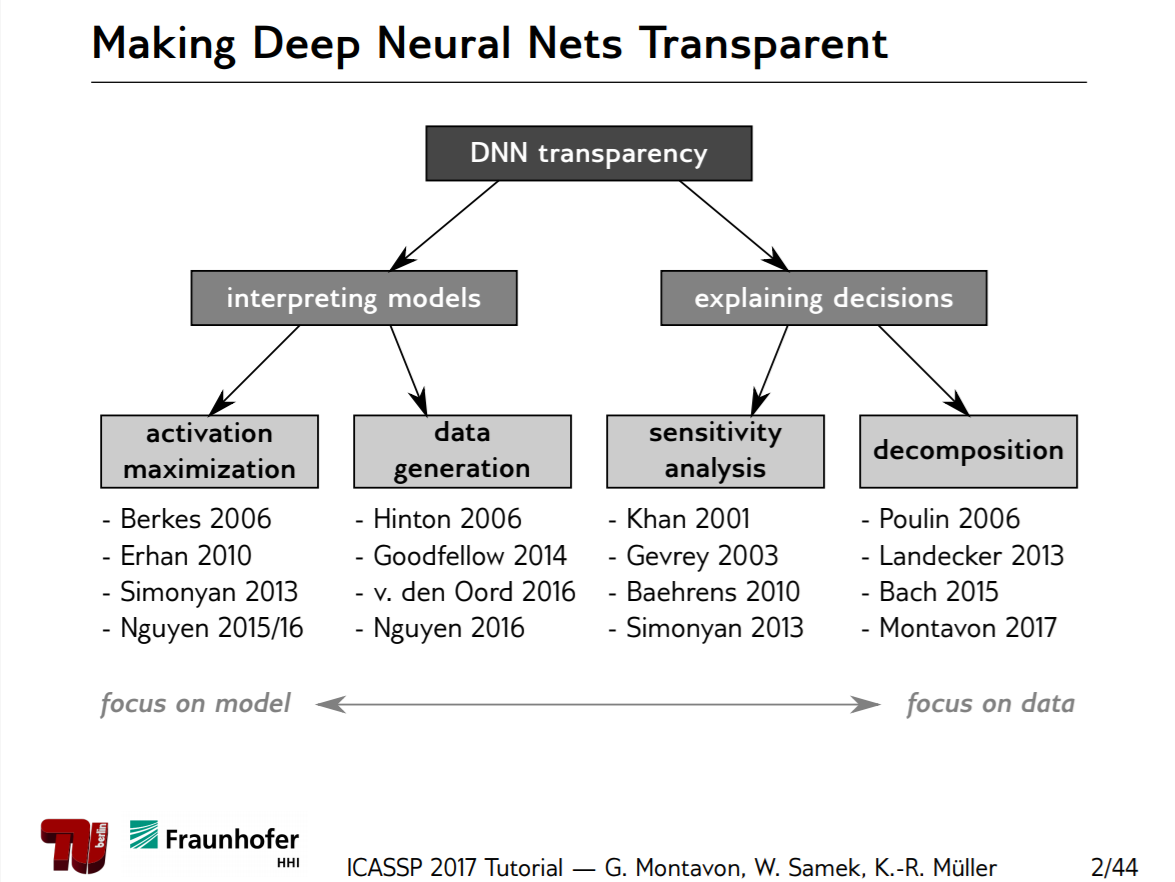
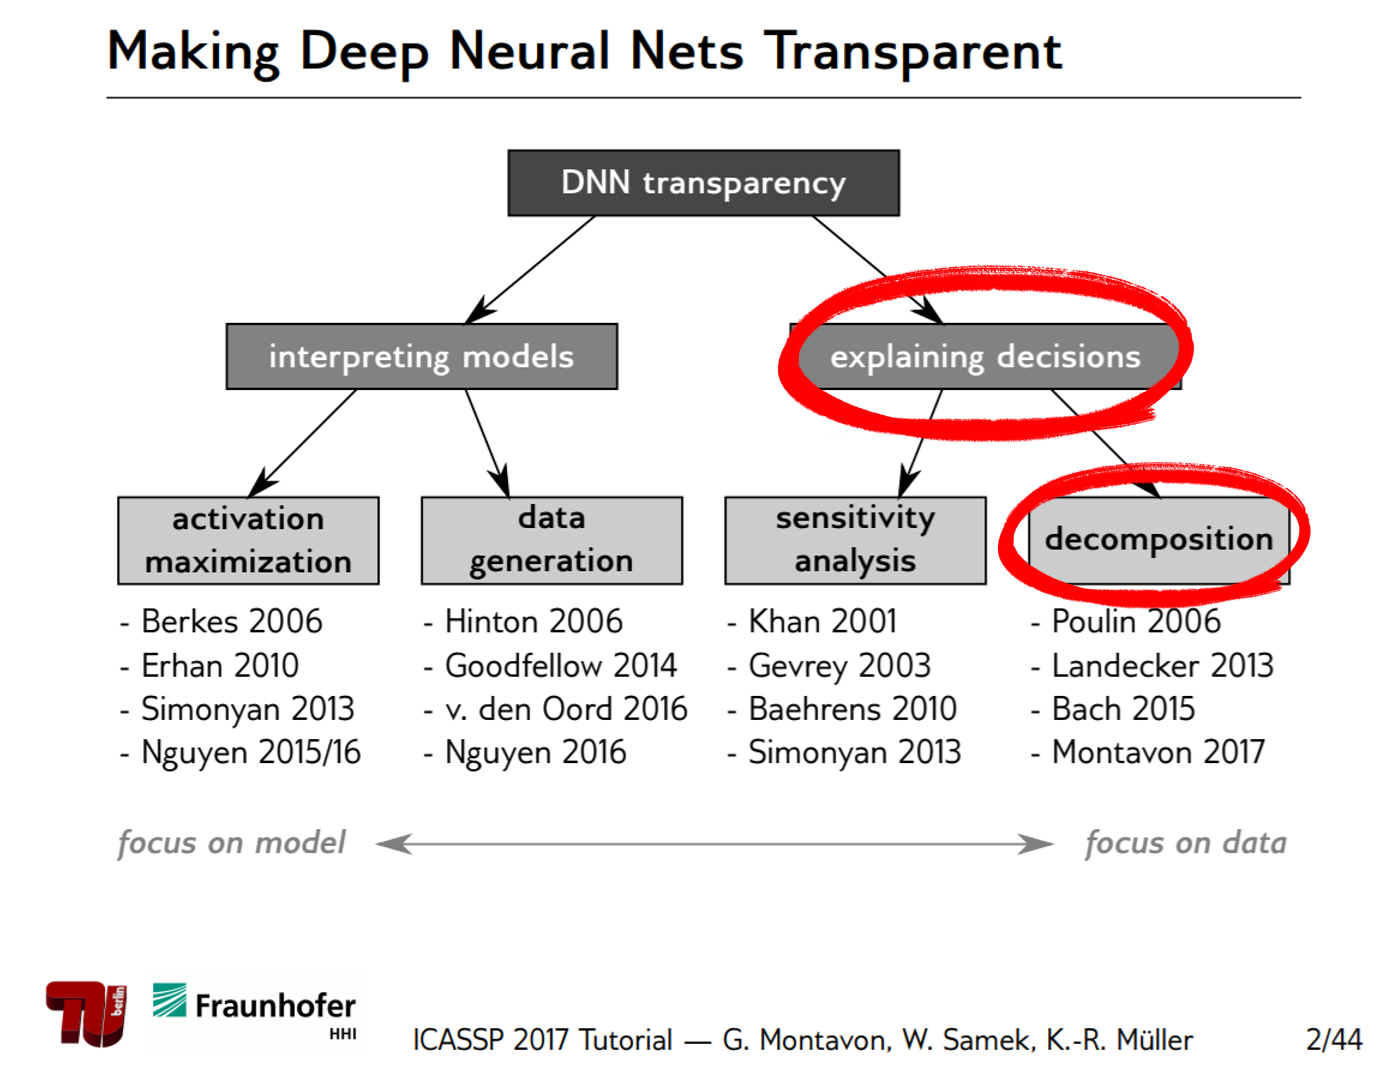
LRP 작성 계속

diff --git a/_posts/2019-08-17-Layerwise_Relevance_Propagation.md b/_posts/2019-08-17-Layerwise_Relevance_Propagation.md
@@ -44,15 +44,17 @@ tags: 딥러닝
 
 이걸 이해하기 위한 연구들은 크게 두 종류로~
 
-// pic 0 here
-// 출처: ICASSP2017 Tutorials on Methods for Interpreting and Understanding Deep Neural Networks
-
+<p align = "center">
+  <img width = "800" src = "https://raw.githubusercontent.com/angeloyeo/angeloyeo.github.io/master/pics/2019-08-17_LRP/pic0_making_neural_network_transparent.png">
+<br>
+그림 0. 뉴럴네트워크의 동작을 이해하기 위한 여러가지 방법들의 분류
+<br>
+출처: ICASSP2017 Tutorials on Methods for Interpreting and Understanding Deep Neural Networks
+</p>
 Layer-wise Relevance Propagation (이하 LRP)는 ~에 속한다.
 
 
-# Layer-wise Relevance Propagation (LRP)
-
-## Goal of LRP
+# Goal of LRP
 
 분해를 통한 설명(explanation by decomposition)을 목표로 한다.
 
@@ -73,11 +75,15 @@ $$f(x) = \sum_{i=1}^{d}R_i$$
 아래 그림 1에서 볼 수 있듯이 heatmap이라고 적힌 그림에 각 pixel들의 기여도(relevance score)를 색깔로 표시해두었으며, 수탉의 부리나 머리등을 보고 해당 입력의 클래스가 '수탉'임을 출력했다는 것을 알 수 있다.
 
 [^1]: 여기서 이 분류기가 수탉이냐 아니냐를 판단하는 binary classifier라면 출력 f(x)는 sigmoid 함수의 출력으로, 다중 클래스 분류기라면 softmax의 출력을 쓸 수 있다.
+<p align = "center">
+  <img width = "800" src = "https://raw.githubusercontent.com/angeloyeo/angeloyeo.github.io/master/pics/2019-08-17_LRP/pic1.png">
+<br>
+그림 1. LRP가 작동하는 방법 및 결과를 요약한 그림
+<br>
+출처: Explaining Decisions of Neural Networks by LRP. Alexander Binder @ Deep Learning: Theory, Algorithms, and Applications. Berlin, June 2017
+</p>
 
-// pic 1 here
-// 출처: Explaining Decisions of Neural Networks by LRP. Alexander Binder @ Deep Learning: Theory, Algorithms, and Applications. Berlin, June 2017 
-
-## The intuition behind it
+# The intuition behind it
 
 LRP(Layer-wise Relevance Propagation)의 이름에서 볼 수 있듯이 이 method는 relevance score를 출력단에서 입력단 방향으로 top-down 방식으로 기여도를 재분배 하는 방법이다.
 
@@ -87,20 +93,34 @@ LRP의 기본적인 가정 및 작동 방식은 다음과 같다.
 * 기여도는 top-down 방식으로 각 뉴런의 출력단에서 입력단 방향으로 재분배 된다.
 * (재)분배시 기여도는 보존된다.
 
-// pic 2 here
-// 출처: Explaining Decisions of Neural Networks by LRP. Alexander Binder @ Deep Learning: Theory, Algorithms, and Applications. Berlin, June 2017 
+<p align = "center">
+  <img width = "400" src = "https://raw.githubusercontent.com/angeloyeo/angeloyeo.github.io/master/pics/2019-08-17_LRP/pic2.png">
+<br>
+그림 2. relevance score의 분배 과정
+<br>
+출처: Explaining Decisions of Neural Networks by LRP. Alexander Binder @ Deep Learning: Theory, Algorithms, and Applications. Berlin, June 2017 
+</p>
 
 재분배시 기여도가 보존된다는 말을 추가 설명 하자면, 예를 들어 그림 1에서와 같이 특정 사진 입력에 대해 '수탉'이라는 분류를 했고 그 출력값(여기서는 확률이라고 할 수 있겠다) $f(x)$가 0.9였다고 하자. 그러면 각 layer의 뉴런들은 0.9라는 출력에 대한 기여도를 모두 조금씩은 갖고 있으며, relevance score를 분배한 후 각 layer에서의 relevance score의 합은 0.9가 되어야 한다는 뜻이다.
 
-## Explanation for neural network?
+# Explanation for neural network?
 
-// pic 3 here
+<p align = "center">
+  <img width = "400" src = "https://raw.githubusercontent.com/angeloyeo/angeloyeo.github.io/master/pics/2019-08-17_LRP/pic3.png">
+<br>
+그림 3. 딥뉴럴네트워크의 예측값(prediction)을 어떻게 분해(decompose)할 것인가?
+</p>
 
-이제 우리가 실질적으로 맞닥뜨리게 되는 문제는 이것이다: **딥 뉴럴 네트워크의 예측값 혹은 출력값($f(x)$)을 수학적으로 어떻게 분해해 '기여도'를 정의할 것인가?**
+이제 우리가 실질적으로 맞닥뜨리게 되는 문제는 이것이다: **딥 뉴럴 네트워크의 예측값 혹은 출력값($f(x)$)을 수학적으로 어떻게 분해하고, 어떻게 '기여도'를 정의할 것인가?**
 
 이 문제에 대한 해결법은 위에서 설명한 "기본적인 가정 및 작동 방식"에 따라 각 뉴런별로 생각하게 되고, 특히 각 뉴런의 출력과 입력의 관계를 이용해 기여도를 수학적으로 정의하고자 한다.
 
-// pic 4 here
+
+<p align = "center">
+  <img width = "400" src = "https://raw.githubusercontent.com/angeloyeo/angeloyeo.github.io/master/pics/2019-08-17_LRP/pic4.png">
+<br>
+그림 4. 2차원 입력과 1차원 출력을 갖는 뉴런
+</p>
 
 그림 4에서와 같이 입력 2개를 갖는(즉, weight는 2개, bias는 1개) 기본적인 뉴런 하나를 생각해보자.
 
@@ -116,7 +136,7 @@ $$\frac{\partial f}{\partial x_1}, \frac{\partial f}{\partial x_2}$$
 
 LRP에서는 Taylor Series를 도입한다.
 
-### Taylor Series
+## Taylor Series
 
 임의의 매끄러운 함수 $f(x)$ 및 실수 $a$에 대해 $f(x)$의 Taylor Series는 다음과 같다.
 
@@ -130,7 +150,12 @@ $$f(x) = f(a) + \frac{d}{dx}f(x)\big|_{x=a}(x-a) + \epsilon$$
 
 다변수 함수의 경우에는 Taylor 급수는 다음과 같다.
 
-// pic 5 here
+
+<p align = "center">
+  <img width = "800" src = "https://raw.githubusercontent.com/angeloyeo/angeloyeo.github.io/master/pics/2019-08-17_LRP/pic5.png">
+<br>
+그림 5. 다변수 함수의 Taylor 급수. 출처: Wikipedia
+</p>
 
 즉, d 차원 input에 대해서는 다음과 같이 first-order Taylor series를 쓸 수 있다.
 
@@ -138,7 +163,7 @@ $$f(\pmb{x}) = f(\pmb{a}) + \sum_{p = 1}^{d}\frac{\partial \pmb{f}}{\partial x_p
 
 위 식에서 우변의 두 번째 term이 의미하는 것이 바로 $x_p$가 변했을 때 $f(x)$는 얼마나 변했는가이다.
 
-### 테일러 급수 수식의 '적절한' 변형
+## 테일러 급수 수식의 '적절한' 변형
 
 식 (6)은 우리에게 꼭 필요한 기능인 "출력을 relevance score로 분해해주는 기능"을 할 수 있게 도와주지만, 불필요한 term이 두 가지 있다. $f(a)$와 $\epsilon$이 그것이다. 
 
@@ -152,7 +177,7 @@ $$ = \sum_{i=1}^{d}\frac{\partial f}{\partial x_i}\big|_{x_i = a_i}(x_i-a_i)$$
 
 $$ = \sum_{i=1}^{d}R_i$$
 
-### ReLU의 특성을 통해 epsilon = 0임을 확인해보자.
+## ReLU의 특성을 통해 epsilon = 0임을 확인해보자.
 
 그림 4와 같은 입력 2개와 출력 하나를 갖고, 활성화 함수가 ReLU인 뉴런의 작동은 수학적으로 다음과 같이 기술 할 수 있다.
 
@@ -160,8 +185,8 @@ $$f(x) = \max\left(0, \sum_{i=1}^{2}w_i x_i + b\right)$$
 
 
 $$= \begin{cases}
-0  & \text{: case i) when $\sum_{i=1}^{2}w_ix_i + b \leq 0$} \\
-\sum_{i=1}^{2}w_ix_i + b & \text{: case ii) when $\sum_{i=1}^{2}w_ix_i + b > 0$}
+0  & \text{case i) when $\sum_{i=1}^{2}w_ix_i + b \leq 0$} \\
+\sum_{i=1}^{2}w_ix_i + b & \text{case ii) when $\sum_{i=1}^{2}w_ix_i + b > 0$}
 \end{cases}$$
 
 
@@ -181,10 +206,55 @@ $$\frac{\partial f(x)}{\partial x_1}= w_1, \frac{\partial f(x)}{\partial x_2} = 
 
 또, 다음과 같이 2차 이상의 편미분 계수는 모두 0이다.
 
-$$\frac{\partial ^2 f(x)}{\partial x_1 ^2} = 0, \space \frac{\partial^2 f(x)}{\partial x_1 \partial x_2} = 0, \space, \cdots $$
+$$\frac{\partial ^2 f(x)}{\partial x_1 ^2} = 0, \space \frac{\partial^2 f(x)}{\partial x_1 \partial x_2} = 0, \space \cdots $$
 
 따라서, 식 (12)에서 Taylor Series로 씌여진 식에서 $\epsilon=0$임을 알 수 있다.
 
 그러므로, 식 (12)를 다시 쓰면 다음과 같다.
 
 $$f(x) = \sum_{i=1}^{2}w_ix_i+b = f(a) + \sum_{i=1}^{2}w_i(x_i-a_i)$$
+
+## 적절한 a를 찾는 방법
+
+테일러 급수를 이용해 함수를 근사화(approximate) 할 때 근사화를 시작할 점 $x=a$는 어느 위치여도 관계 없이 무한한 항을 다 더해줄 수 만 있다면 정확하게 그 함수를 근사화할 수 있다.
+
+다만 LRP에서는 식 (8)에서 보았듯이 $f(a)=0$이라는 제약조건이 존재하므로, 이 조건을 만족시키는 a를 찾으면 되고 여전히 무수히 많은 $a$가 해당 제약조건을 만족할 수 있다.
+
+이번에 소개할 방법은 참고문헌 (Explaining NonLinear Classification ~)에서 소개하는 $w^2$-rule이다.
+
+
+<p align = "center">
+  <img width = "800" src = "https://raw.githubusercontent.com/angeloyeo/angeloyeo.github.io/master/pics/2019-08-17_LRP/pic6.png">
+<br>
+그림 6. 하나의 뉴런에서, 두 개의 입력값과 ReLU 통과 후의 출력값(색깔)을 도시한 그림
+</p>
+
+그림 6은 그림 4에서 표현한 뉴런과 같이 두 개의 입력값과 하나의 출력값을 가지는 뉴런의 입출력 관계를 나타내고 있다. 입력 $x_1, x_2$는 우리가 입력한 것이니 알고 있는 값이고, 그 출력값 $f(x_1, x_2) = ReLU(x_1, x_2)$는 뉴럴네트워크 모델에 의해 결정된 값이다. 출력 값은 색깔로 표시되었으며, 흰색에 가까울 수록 0에 가깝고 빨간색에 가까울 수록 그 값이 크다. 실선으로 표시되어 있는 지점은 모든 값이 0인 지점이고, 점선으로 표시되어 있는 지점은 동일한 값을 갖는 등고선이다.
+
+그림 6에서 볼 수 있는 것 처럼 $w^2$-rule이 말하는 적절한 $a$는 출력값이 0 (즉, $f(a) = 0$)이면서 입력 $x = (x_1, x_2)$에 가장 가까운 지점이다.
+
+$w^2$-rule을 따를 때, $a$를 계산하기 위해 다음과 같은 과정을 거칠 수 있다.
+
+일단 그림 6에서 화살표의 의미를 생각해보면 $\vec{a}$와 $\vec{x}$는 다음과 같은 관계를 갖는다.
+
+$$\vec{a} -  \vec{x} = t\vec{w}$$
+
+즉, $\vec{a}$와 $\vec{x}$를 빼준 벡터가 $\vec{w}$의 실수배가 되어야 한다는 점이다.
+
+이 식을 약간 변경하면,
+
+$$\vec{a} = \vec{x} + t\vec{w}$$
+
+가 된다.
+
+또, 우리의 제약 조건($f(a) = 0$)에 따라,
+
+$$f(\vec{a}) = \sum_{i=1}^{2}w_ia_i+b = 0$$
+
+이다. 
+
+즉, 
+
+
+참고문헌
+* Explaining NonLinear Classification Decisions with Deep Taylor Decomposition, Montavon et al., 2015
